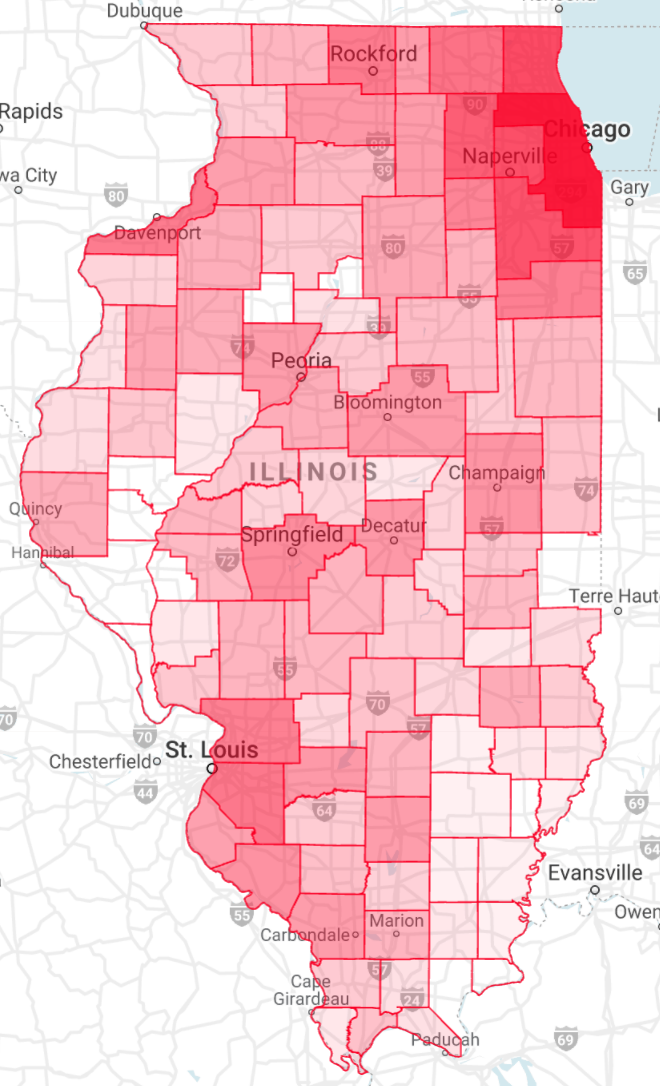
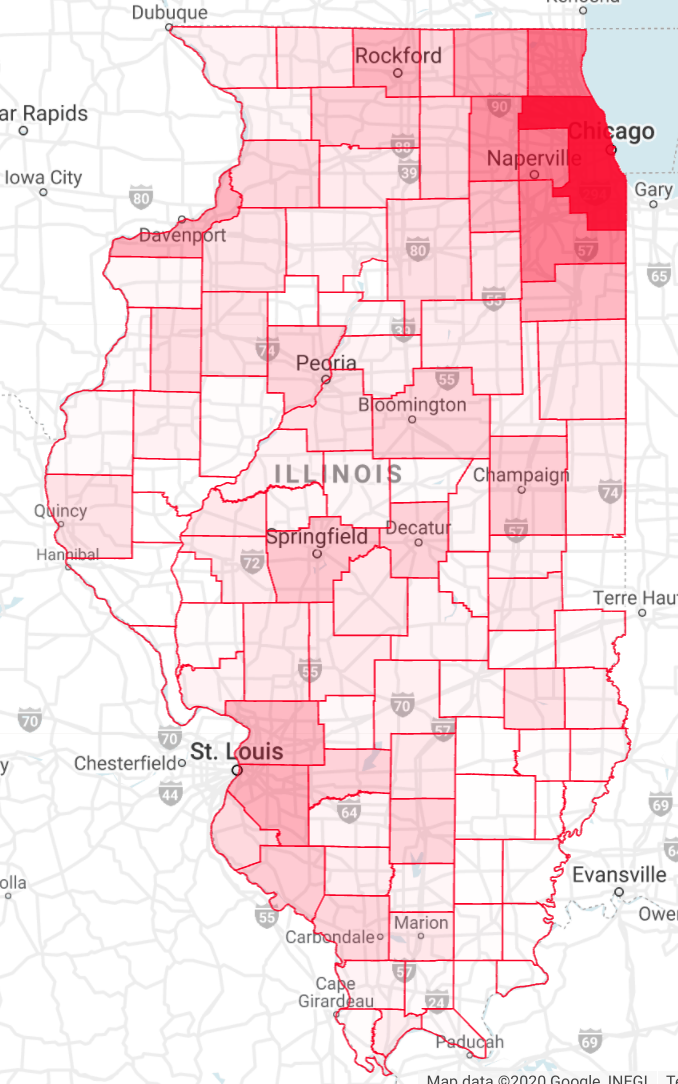
squared the log for more accurate color map

diff --git a/courses/data-engineering/demos/covid19/README.md b/courses/data-engineering/demos/covid19/README.md
@@ -192,7 +192,7 @@ It turns out that the `utility_us.us_county_area` table doesn't have the full FI
 
 ![Map of Illinois showing cases by county](img/illinois_cases.png)
 
-One subtle difference is in the above map from the previous map of the whole US is that we've taken the natural logarithm function LN() of the number of cases. BigQuery GeoViz does not offer opacity shading with logarithmic interpolation, but we can put the logarithm in the query and then use linear interpolation in GeoViz to achieve the same effect. It's also possible to manually set up a logarithmic perception color map in GeoViz by adding buckets to the Domain fields as shown in [this blog post](https://medium.com/google-cloud/analyzing-covid-19-with-bigquery-13701a3a785).  
+One subtle difference is in the above map from the previous map of the whole US is that we've taken the square of the natural logarithm LN() of the number of cases. BigQuery GeoViz does not offer opacity shading with logarithmic interpolation, but we can put the logarithm in the query and then use linear interpolation in GeoViz to achieve the same effect. LN() by itself compresses the orders of magnitude a little too much, but squaring it seems about right. It's also possible to manually set up a logarithmic perception color map in GeoViz by adding buckets to the Domain fields as shown in [this blog post](https://medium.com/google-cloud/analyzing-covid-19-with-bigquery-13701a3a785).  
 
 ## Optimizing DataStudio
 DataStudio is a graphical, Web-based report-building tool that works seamlessly with BigQuery as well as many other data sources. Here is a [COVID-19 US dashboard](https://datastudio.google.com/reporting/1ae55c55-9993-4a17-83a1-17cd1bbdf180) built with DataStudio. It's mostly self-explanatory how to build reports using DataStudio. It's easy to add a date range control, which can be used to filter the data from all other graphs by specifying which field in the data source represents the "Date range dimension." Likewise, you can easily make table controls clickable simply by checking the "Apply filter" box in its data properties. That's how the clickable county table on the right side of the dashboard works.
